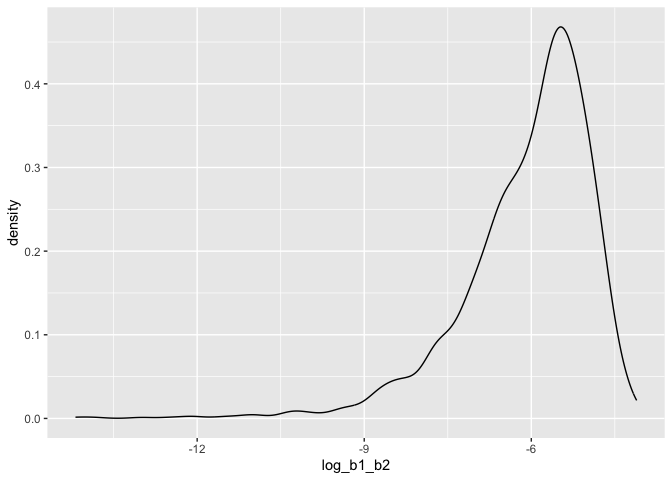
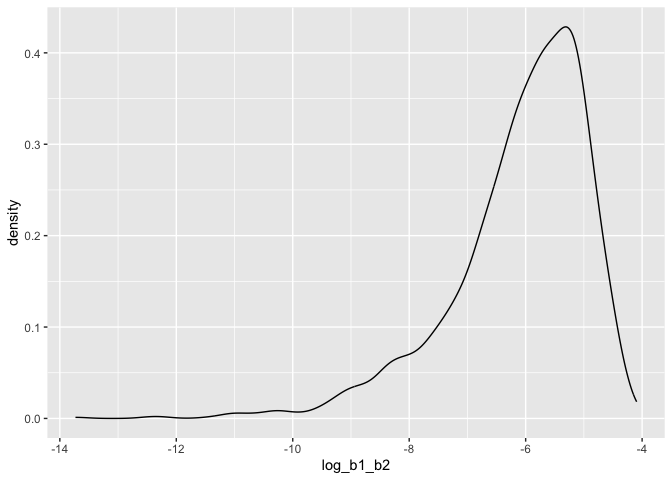
problem 2 delete b0b1

diff --git a/p8105_hw6_xt2288.md b/p8105_hw6_xt2288.md
@@ -177,10 +177,9 @@ weather_data_df = weather_df |>
     values_from = estimate
   ) |>
   mutate(
-    log_b1_b2 = log(tmin * prcp),
-    log_b0_b1 = log(`(Intercept)` * tmin)
+    log_b1_b2 = log(tmin * prcp)
   ) |>
-  select(.id, r.squared, log_b1_b2, log_b0_b1)
+  select(.id, r.squared, log_b1_b2)
 ```
 
     ## Warning: `unnest()` has a new interface. See `?unnest` for details.
@@ -211,12 +210,12 @@ weather_data_df |>
   geom_density()
 ```
 
-    ## Warning: Removed 3318 rows containing non-finite values (`stat_density()`).
+    ## Warning: Removed 3394 rows containing non-finite values (`stat_density()`).
 
 ![](p8105_hw6_xt2288_files/figure-gfm/unnamed-chunk-5-1.png)<!-- -->
 
-The distribution of log($\hat{\beta_1} * \hat{\beta_2}$) is left-skewed.
-NAs are removed.
+0.6788% is NA. After removed these NAs. The distribution of
+log($\hat{\beta_1} * \hat{\beta_2}$) is left-skewed.
 
 Here is the 95% confidence interval for ${r^2}$.
 
@@ -225,17 +224,17 @@ quantile(pull(weather_data_df, r.squared), probs = c(0.025, 0.975))
 ```
 
     ##      2.5%     97.5% 
-    ## 0.8882705 0.9406958
+    ## 0.8888909 0.9404672
 
 Here is the 95% confidence interval for
-log($\hat{\beta_0} * \hat{\beta_1}$).
+log($\hat{\beta_1} * \hat{\beta_2}$) after removing the NAs.
 
 ``` r
-quantile(pull(weather_data_df, log_b0_b1), probs = c(0.025, 0.975))
+quantile(pull(weather_data_df, log_b1_b2), probs = c(0.025, 0.975), na.rm = TRUE)
 ```
 
-    ##     2.5%    97.5% 
-    ## 2.055011 2.138823
+    ##      2.5%     97.5% 
+    ## -9.035100 -4.547428
 
 # Problem 3
 
